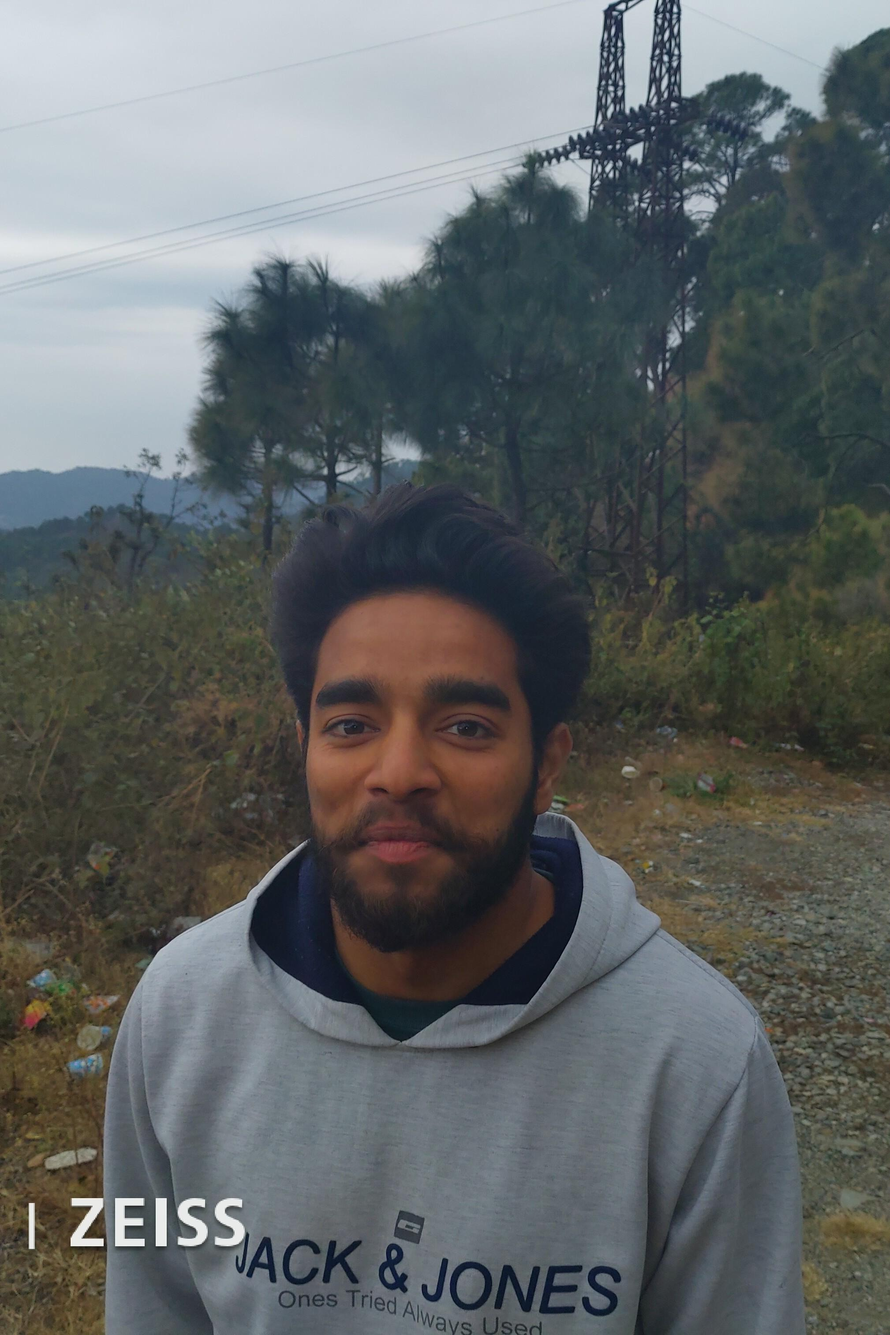
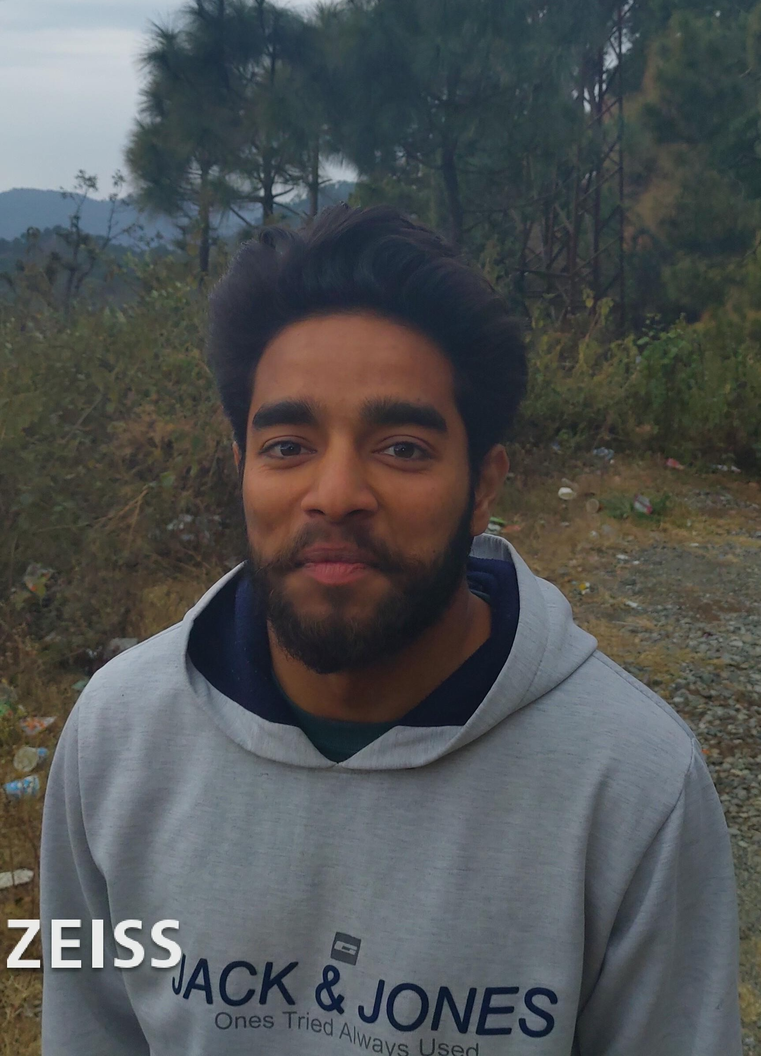
added profile image

diff --git a/index.html b/index.html
@@ -7,8 +7,8 @@
 </head>
 <body>
 	<center>
-		<h2>Welocome to Atul Raj's Homepage!</h2>
-		
+		<h2>Welcome to Atul Raj's Homepage!</h2>
+		<img src="assets/Images/profile.jpg" width="300" height="400">
 	</center>
 	
 
